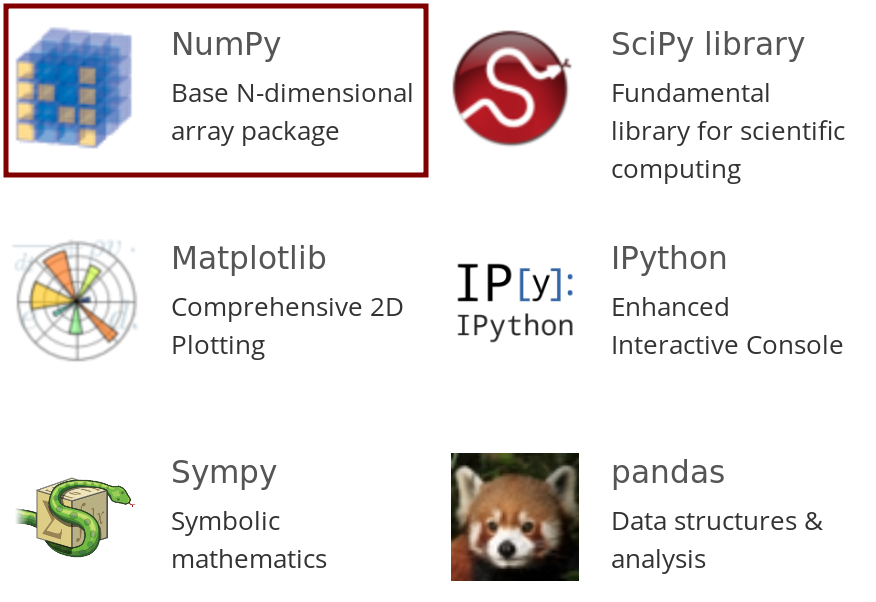
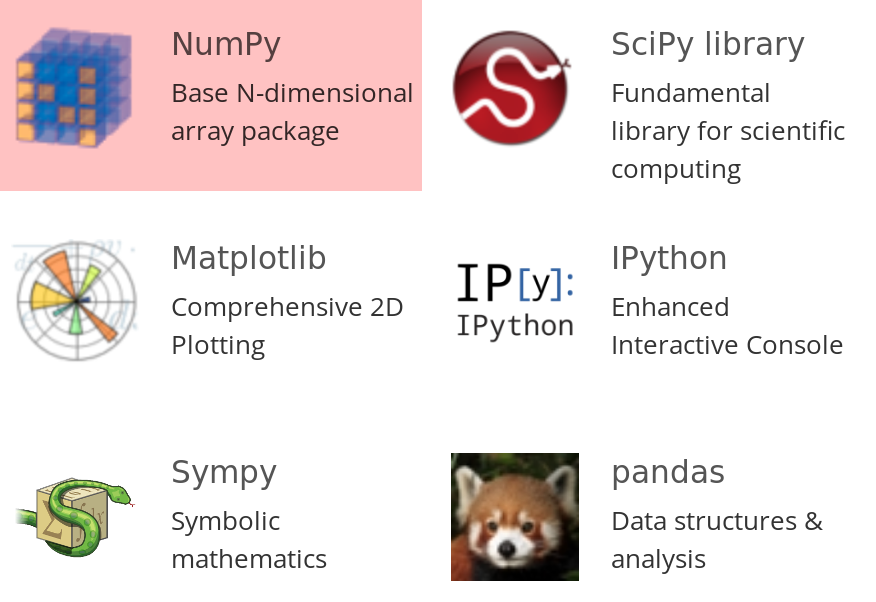
subsequent tutorials marked

Changed region(s): [[0.0, 0.0, 0.4932, 0.3289]]

diff --git a/presentation.tex b/presentation.tex
@@ -83,7 +83,8 @@
 
  \begin{center}
   \only<1>{\includegraphics[width=0.7\textwidth]{SciPyEco}}%
-  \only<2>{\includegraphics[width=0.7\textwidth]{SciPyEco_NumPy}}\quad%
+  \only<2>{\includegraphics[width=0.7\textwidth]{SciPyEco_NumPy}}%
+  \only<3>{\includegraphics[width=0.7\textwidth]{SciPyEco_Tutorials}}\quad%
   \raisebox{0.2truecm}{%
    \begin{sideways}
     \tiny from: \url{www.scipy.org}
